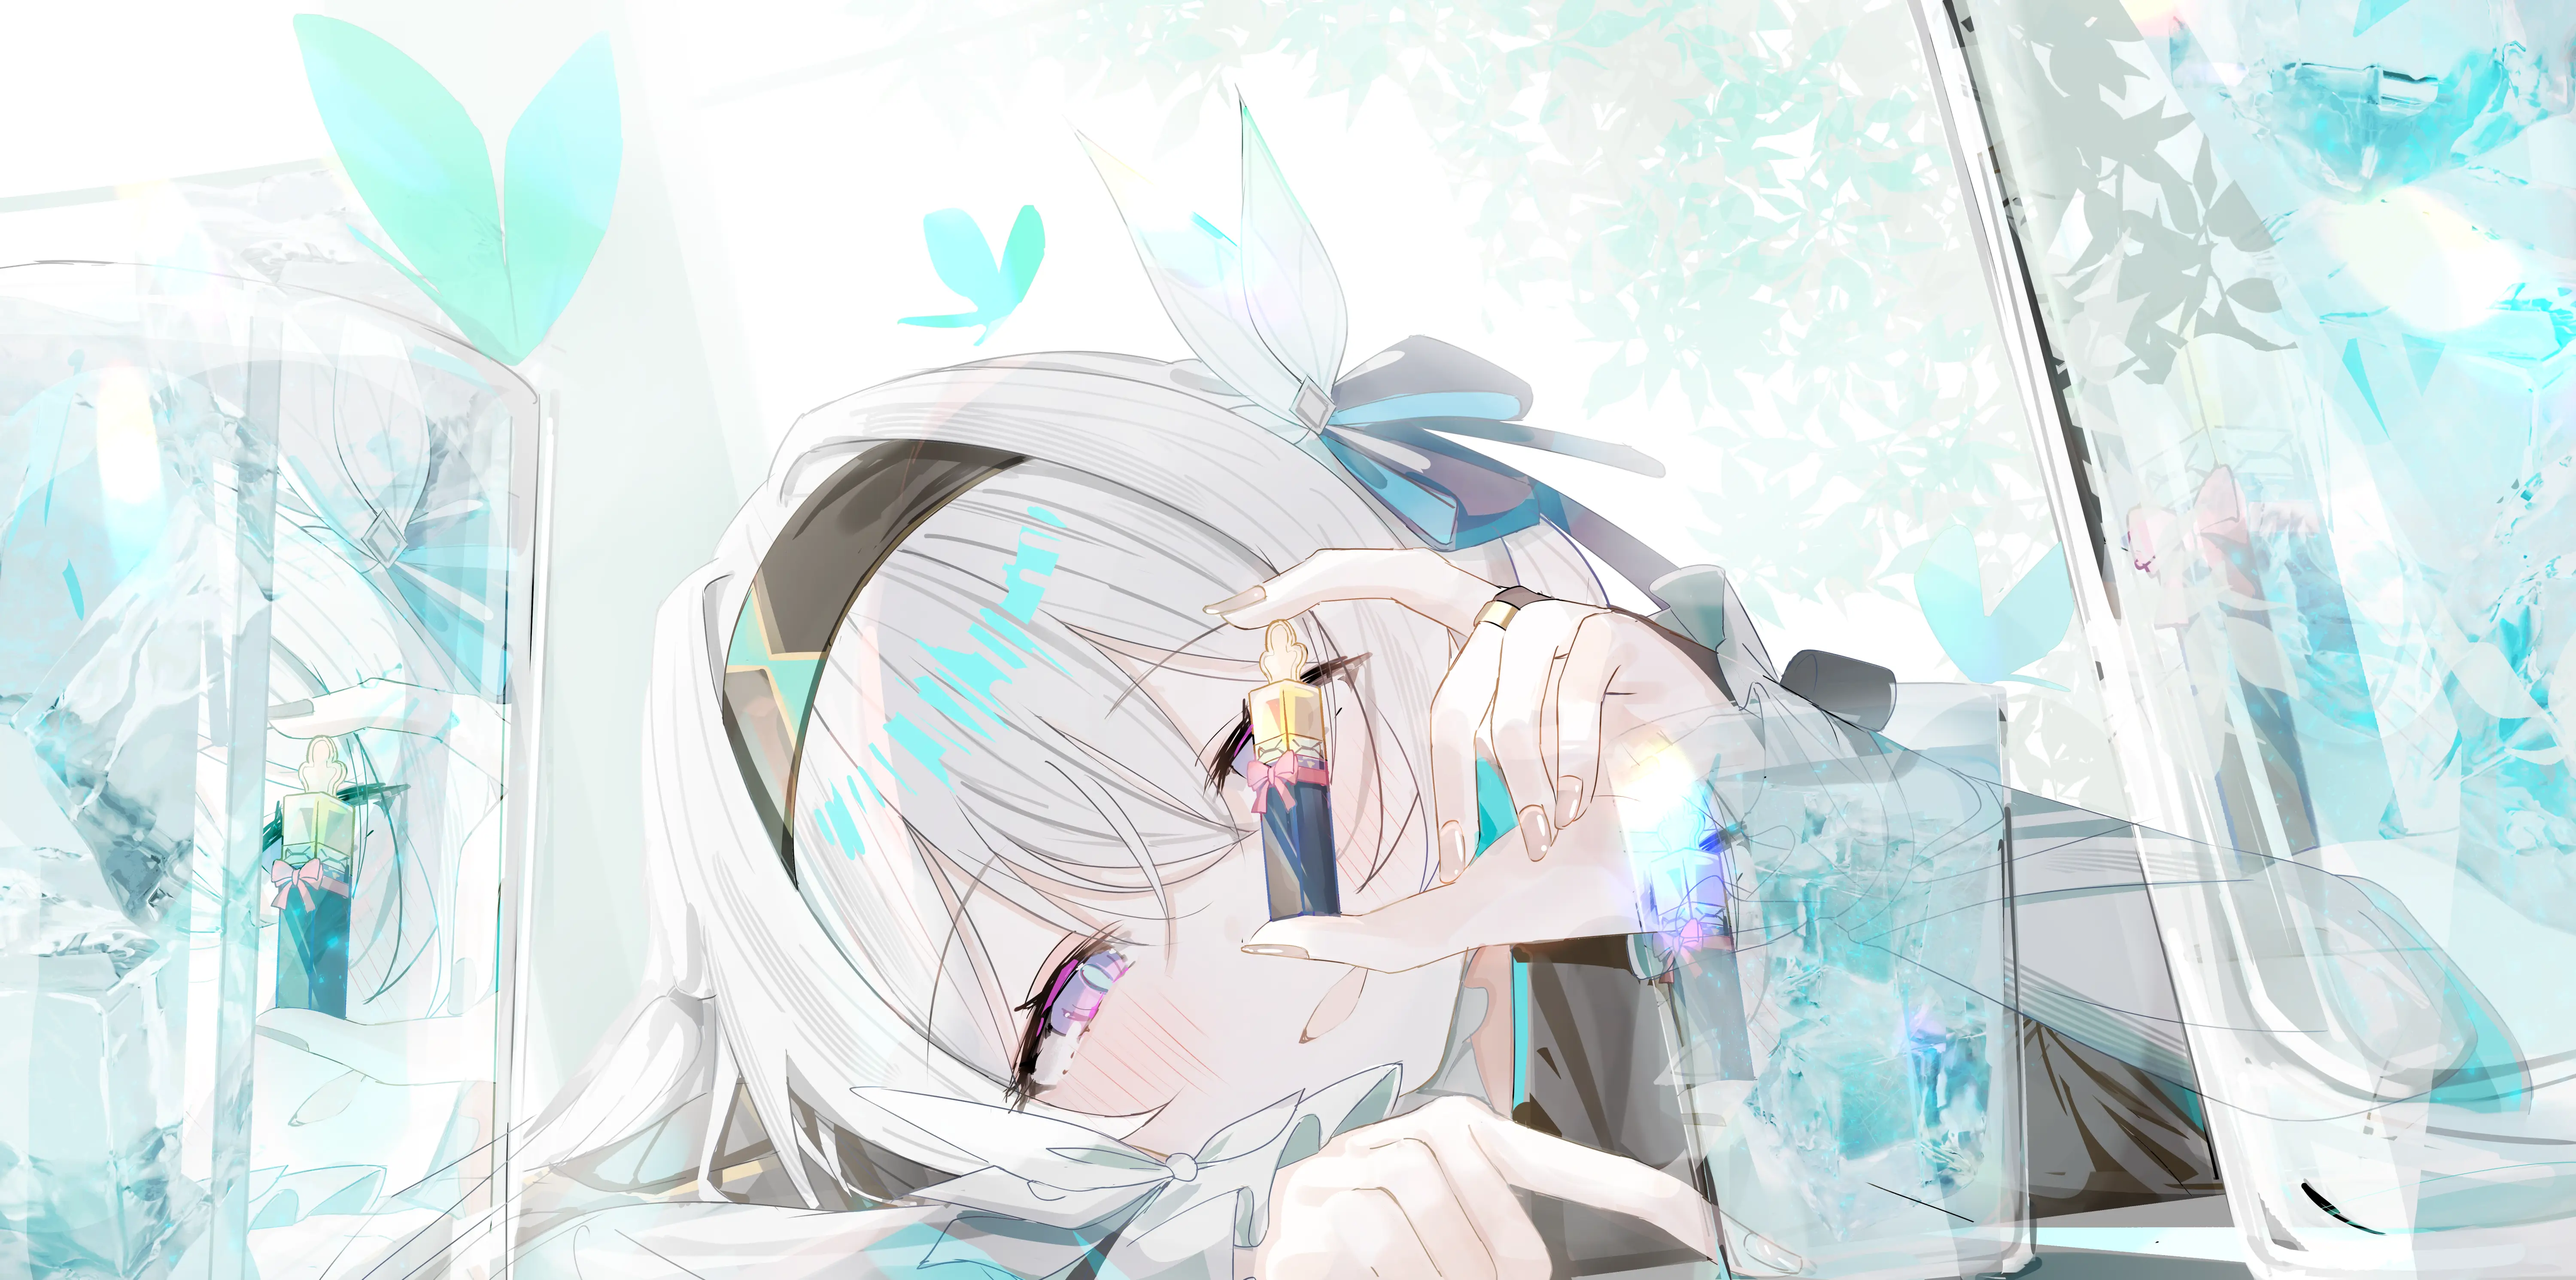
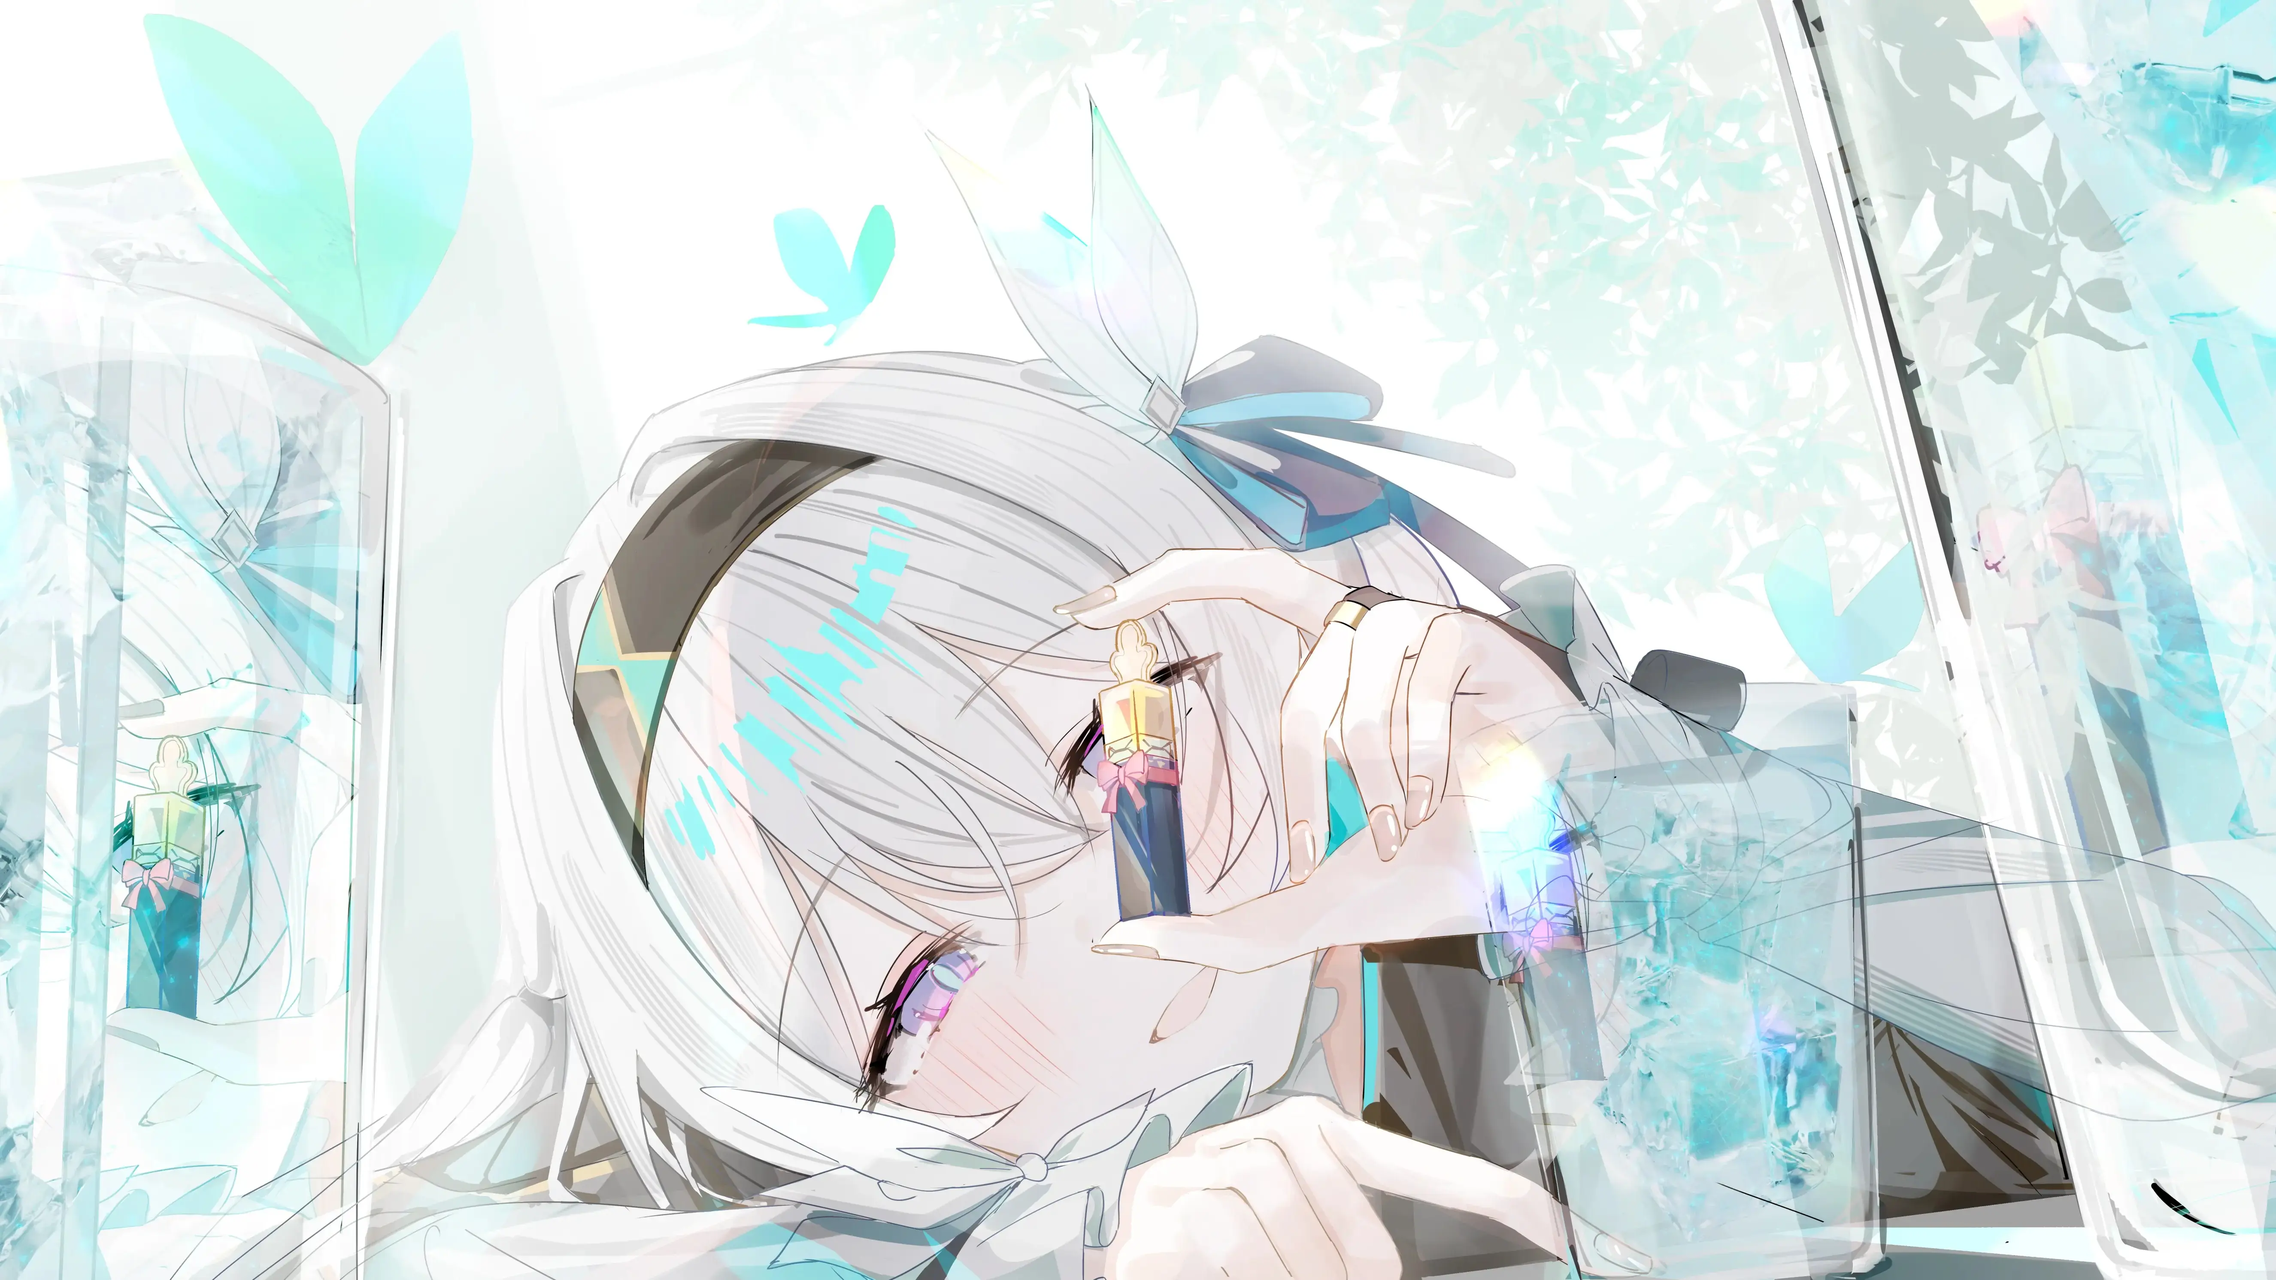
article: update color scheme and replace impression image

diff --git a/posts/关于这个主题的一些事.md b/posts/关于这个主题的一些事.md
@@ -1,8 +1,8 @@
 ---
 title: "关于这个主题的一些事"
 description: ""
-color: "#59f3b3"
-impression: "/assets/images/133925125_p0.webp"
+color: "#0084ff"
+impression: "/assets/images/131559307_p0.webp"
 categories:
   - 随笔
 tags:
